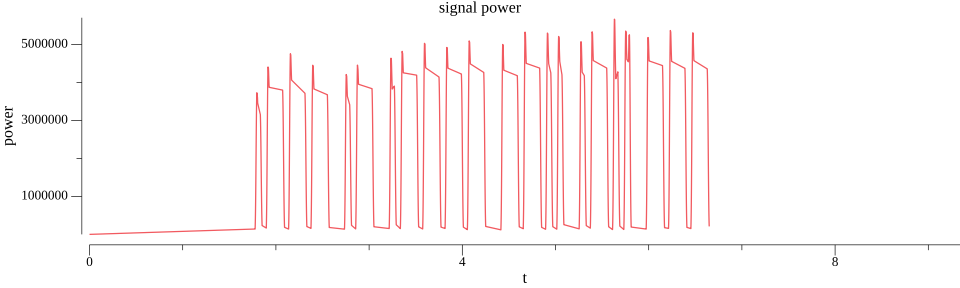
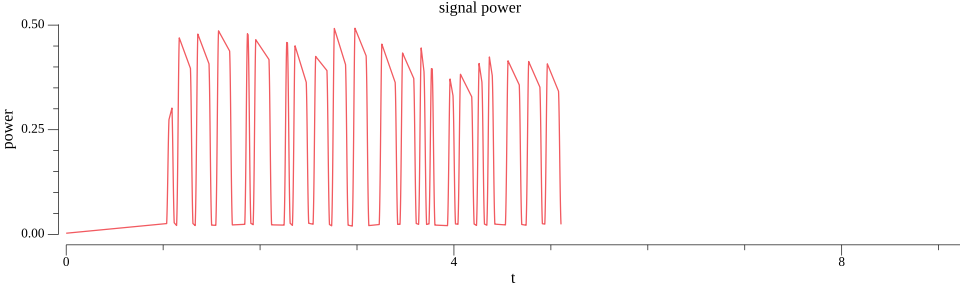
normalize

diff --git a/decoder.go b/decoder.go
@@ -29,6 +29,7 @@ import (
 	"bytes"
 	"encoding/binary"
 	"github.com/gen2brain/malgo"
+	"github.com/thoas/go-funk"
 	"gonum.org/v1/plot"
 	"gonum.org/v1/plot/plotter"
 	"gonum.org/v1/plot/plotutil"
@@ -123,6 +124,7 @@ func PeakValue(source []float64) float64 {
 
 func DetectEdges(threshold float64, source []float64) (result []float64, interval int) {
 	peak_value := PeakValue(source)
+	fmt.Println(peak_value)
 	threshold = peak_value * threshold
 
 	hold := 0
@@ -208,7 +210,7 @@ func PeakFreq(signal []float64, sampling_freq uint32) float64 {
 	return peakFreq
 }
 
-func record() []int16{
+func record() []int32{
 	ctx, err := malgo.InitContext(nil, malgo.ContextConfig{}, func(message string) {
 		fmt.Printf("LOG <%v>\n", message)
 	})
@@ -222,9 +224,9 @@ func record() []int16{
 	}()
 
 	deviceConfig := malgo.DefaultDeviceConfig(malgo.Duplex)
-	deviceConfig.Capture.Format = malgo.FormatS16
+	deviceConfig.Capture.Format = malgo.FormatS32
 	deviceConfig.Capture.Channels = 1
-	deviceConfig.Playback.Format = malgo.FormatS16
+	deviceConfig.Playback.Format = malgo.FormatS32
 	deviceConfig.Playback.Channels = 1
 	deviceConfig.SampleRate = uint32(samplingrate)
 	deviceConfig.Alsa.NoMMap = 1
@@ -266,7 +268,7 @@ func record() []int16{
 
 	device.Uninit()
 
-	Signalint := make([]int16, len(pCapturedSamples)/2)
+	Signalint := make([]int32, len(pCapturedSamples)/4)
 	buffer := bytes.NewReader(pCapturedSamples)
 	binary.Read(buffer, binary.LittleEndian, &Signalint)
 	
@@ -281,19 +283,20 @@ func main() {
 
 	Signal64 := make([]float64, len_sound)
 	SquaredSignal64 := make([]float64, len_sound)
+	norm := float64(1.0)/float64(funk.MaxInt32(SoundData))
 	for i, val := range SoundData {
-		Signal64[i] = float64(val)
-		SquaredSignal64[i] = float64(val) * float64(val)
+		Signal64[i] = float64(val) *  norm
+		SquaredSignal64[i] = float64(val) * float64(val) * norm * norm
 	}
 
-	ave_num := 6 * int(float64(rate_sound)/PeakFreq(Signal64, rate_sound))
+	ave_num :=  6 * int(float64(rate_sound)/PeakFreq(Signal64, rate_sound))
 	cut_freq := 0.443 * float64(rate_sound) / math.Sqrt(float64(ave_num)*float64(ave_num)-1)
 	fmt.Println("tone freq", PeakFreq(Signal64, rate_sound))
 	fmt.Println("cut_off", cut_freq)
 
 	smoothed := LPF(LPF(LPF(LPF(SquaredSignal64, ave_num), ave_num), ave_num), ave_num)
 	diff := OneStepDiff(smoothed)
-	edge, interval := DetectEdges(0.9, diff)
+	edge, interval := DetectEdges(0.2, diff)
 
 	pts := make(plotter.XYs, len(smoothed))
 	pts_diff := make(plotter.XYs, len(diff))
